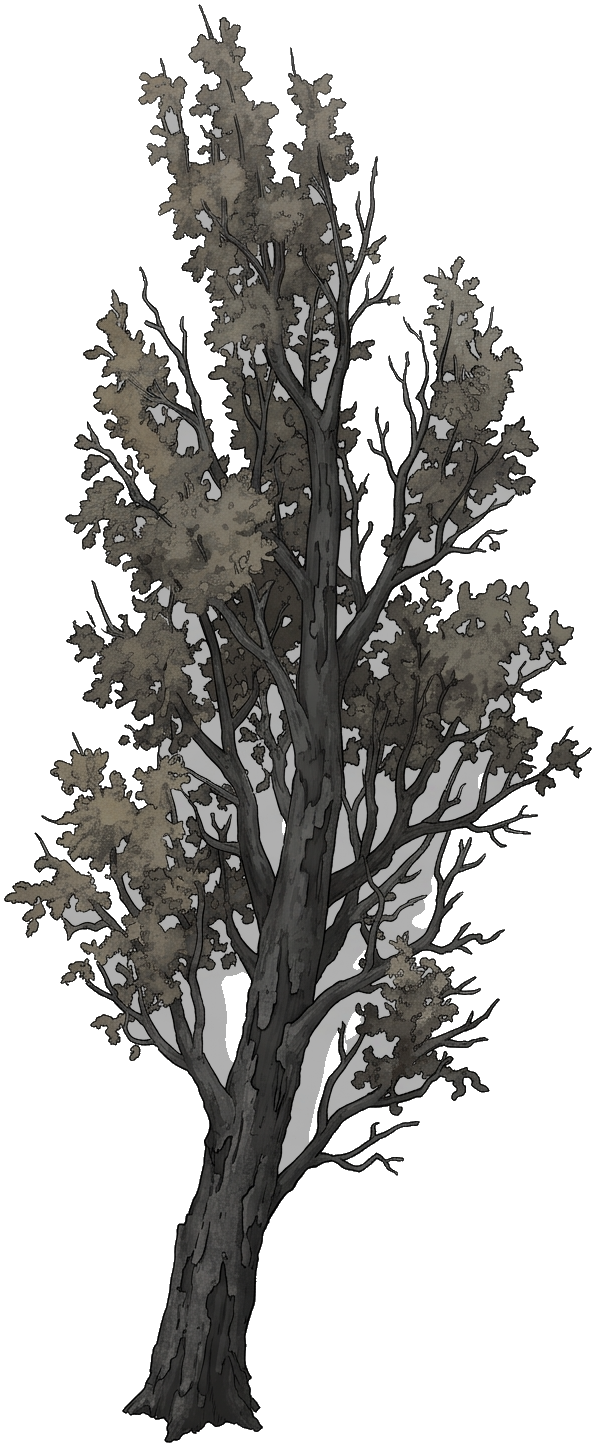
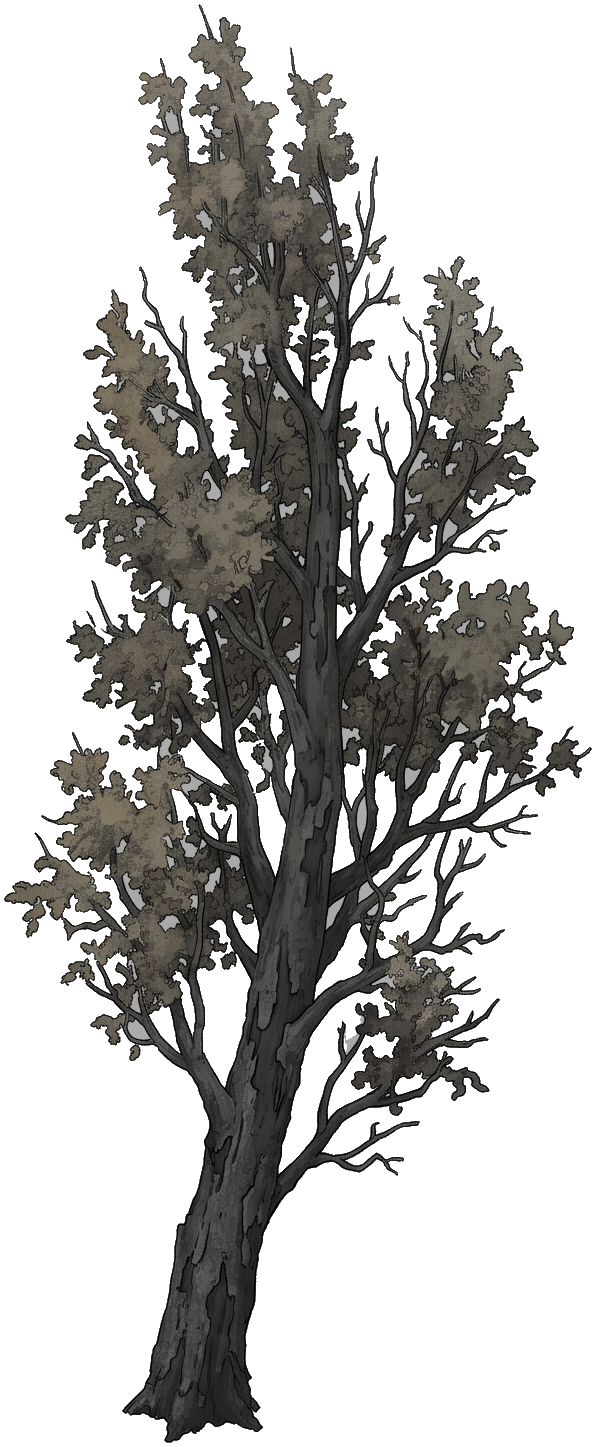
Fix bench gaps and tree whites, trees on grass only, centered road dashes
- process_sprite.mjs: region-based removal of large enclosed light areas
  (bench slat gaps, 40k px) via connected components; strip mode reused
- bench/poplar/birch reprocessed: no more visible white
- cityGen: trees only on grass/ground, never on roads/sidewalks; block-edge
  trees skip buildings
- Road centerline exactly at the 8 m road middle (was offset 0.5 m)
- Plan stage 17: Qwen consultations before complex mechanics (plot, dialog
  system, skills, enemy behavior, base building), drama in dialogs, NPC
  character, building interiors

diff --git a/src/iso/world/cityGen.js b/src/iso/world/cityGen.js
@@ -255,32 +255,54 @@ function genCourtyard(city, bx0, by0, r) {
         });
     city.tires.push({ x: cx0 + 20, y: cy0 + 6 });
   }
-  // деревья во дворе
+  // деревья во дворе — только на траве/земле, не на дорожках
   const nTrees = 3 + Math.floor(r() * 4);
-  for (let i = 0; i < nTrees; i++) {
+  for (let i = 0; i < nTrees * 2; i++) {
     const tx = cx0 + 2 + r() * (cs - 4),
       ty = cy0 + 2 + r() * (cs - 4);
+    if (ground[(ty | 0) * SIZE + (tx | 0)] !== T_GRASS) continue;
     if (Math.abs(tx - cx0 - mid) < 2.5 || Math.abs(ty - cy0 - mid) < 2.5)
       continue; // не на дорожках
     city.trees.push({ x: tx, y: ty, dead: r() < 0.3, v: Math.floor(r() * 3) });
   }
-  // деревья вдоль улиц квартала
+  // деревья у края квартала — только на траве внутри квартала (не на тротуаре!)
   for (let i = 0; i < 3; i++) {
-    if (r() < 0.6)
-      city.trees.push({
-        x: bx0 - 4.5 + r(),
-        y: by0 + 8 + r() * (BLOCK - 16),
-        dead: r() < 0.35,
-        v: Math.floor(r() * 3),
-      });
-    if (r() < 0.6)
-      city.trees.push({
-        x: bx0 + 8 + r() * (BLOCK - 16),
-        y: by0 - 4.5 + r(),
-        dead: r() < 0.35,
-        v: Math.floor(r() * 3),
-      });
+    if (r() < 0.6) {
+      const tx = bx0 + 2 + r(),
+        ty = by0 + 8 + r() * (BLOCK - 16);
+      if (
+        ground[(ty | 0) * SIZE + (tx | 0)] === T_GRASS &&
+        !buildingAt(city, tx, ty)
+      )
+        city.trees.push({
+          x: tx,
+          y: ty,
+          dead: r() < 0.35,
+          v: Math.floor(r() * 3),
+        });
+    }
+    if (r() < 0.6) {
+      const tx = bx0 + 8 + r() * (BLOCK - 16),
+        ty = by0 + 2 + r();
+      if (
+        ground[(ty | 0) * SIZE + (tx | 0)] === T_GRASS &&
+        !buildingAt(city, tx, ty)
+      )
+        city.trees.push({
+          x: tx,
+          y: ty,
+          dead: r() < 0.35,
+          v: Math.floor(r() * 3),
+        });
+    }
   }
+}
+
+// есть ли здание в точке (с запасом)
+function buildingAt(city, x, y) {
+  return city.buildings.some(
+    (b) => x > b.x - 1 && x < b.x + b.w + 1 && y > b.y - 1 && y < b.y + b.h + 1,
+  );
 }
 
 // POI-кварталы

diff --git a/src/iso/render/chunks.js b/src/iso/render/chunks.js
@@ -67,10 +67,9 @@ export function bakeChunk(city, groundSet, cx, cy) {
           ? city.gflag[ty * city.SIZE + tx]
           : 0;
       if (!f) continue;
-      const p1 = local(tx + 0.5, ty + (f === 1 ? 0 : 0.5));
-      const p2 = local(tx + 0.5, ty + (f === 1 ? 1 : 0.5));
-      const q1 = f === 2 ? local(tx, ty + 0.5) : p1;
-      const q2 = f === 2 ? local(tx + 1, ty + 0.5) : p2;
+      // флаг на тайле центра+1 (rx===4); осевая — на его левой кромке (x=tx / y=ty)
+      const q1 = f === 2 ? local(tx, ty) : local(tx, ty);
+      const q2 = f === 2 ? local(tx + 1, ty) : local(tx, ty + 1);
       g.beginPath();
       g.moveTo(q1.x, q1.y);
       g.lineTo(q2.x, q2.y);

diff --git a/REFACTORING_PLAN.md b/REFACTORING_PLAN.md
@@ -242,7 +242,7 @@ zombie/
 - [x] 16.1 Прототип изометрического рендера (`prototype/`): тайл 64×32 = 1 м², чанки земли 8×8 тайлов, спрайты зданий с запечёнными текстурами/окнами, z-сортировка по `max(wx+wy)` футпринта, cutaway здания при входе, ночное освещение half-res с эллипсами 2:1. Замер FPS и бюджета кадра. → Кадр 0,3–6 мс при ~150 drawImage, 60 FPS, запас большой.
 - [x] 16.2 Генератор компактного города (в `prototype/iso.js`, сид `?seed=`, размер `?nb=`): сетка кварталов 62 м + дорога 8 м + тротуары 3 м, периметральная застройка из типовых архетипов (панель 2–3 эт., кирпич, магазин, киоск), дворы с площадками/парковкой/рабицей, уличные машины, фонари, зомби. POI-кварталы: парк, супермаркет с парковкой, школа со спортплощадкой, больница, полиция, АЗС. Город 1458×1458 м (19×19 кварталов, 1434 здания): старт 105 мс, кадр 1,2 мс, чанки с отсевом до запечки + LRU 600, твёрдые тела в пространственной сетке 16 м, дальние зомби спят.
 - [x] 16.3 Ассет-пайплайн: ~~разведка Kenney~~ → вердикт 16.11.2026: миниатюрный «игрушечный» стиль (тайлы 132×101 с толстыми блоками, здания-игрушки), для PZ-подобного масштаба не подходит; CC0 проверен. Gemini UI по `GEMINI_IMAGE_AUTOMATION.md`: `.cache/gemini-ui/generate.mjs` (одна генерация = один чат, метаданные), `batch.mjs`/`batch_sprites.mjs` (серии), `process_texture.mjs` (кроп → 512² PNG), `process_sprite.mjs` (flood fill фона с краёв + вынос белых карманов + modulate в палитру). Сгенерированы 8 текстур (асфальт, трава, грунт, тротуар, паркет, панель, кирпич, рубероид) и 9 спрайтов (тополь, мёртвое дерево, берёза, зомби, выживший, скамейка, контейнер, покрышки, бочка). В прототипе: бесшовная 2×2 зеркальная композиция, сплошная заливка земли текстурами 32 px/м, текстурные стены/крыши, спрайты с якорем низ-центр. - [x] 16.3b Спрайты: белые артефакты — решено обработкой: `process_sprite.mjs` получил режим глобального сноса чисто-белого (`strip=1`) для тёмных объектов без белых деталей; герой (колчан/плечо) и мёртвое дерево (вилки веток) очищены (whiteOpaque → 0%). Машины: сгенерированы спрайты Gemini (седан-«Жигули», сгоревший остов, фургон-«ГАЗель», 3/4 сверху, влево) и подключены с поворотом по курсу. Осталось: мелкий белый треугольник у лобового car_sedan/car_wreck (ретушь), анимация ходьбы, квантование в мастер-палитру 32 цвета.
-- [ ] 16.4 Перенос игры на iso-рендер: решено — НОВАЯ игра на базе прототипа, старая остаётся на index.html до паритета. Сделано: `city.html` + модульный каркас `src/iso/`. Город 1,46 км, multi-page сборка и деплой. Бой заново (лук с натяжением, сегментный хит-тест, HP/смерть, укусы, кровь, трупы, тряска, возрождение). Лут/инвентарь заново: рюкзак 24 слота со стаками, мусорки/бочки с сидовым лутом, обыск по E, **действия предмета по клику на ячейку** (съесть/перевязать/выбросить), стрелы — расходник. Выживание заново: часы, рассвет/закат, ночное освещение от часов, голод и голодный урон, тушёнка/бинт, ночной приток зомби, ночью быстрее ×1,35. Крафт заново: панель на C, рецепты данными (`src/iso/data/recipes.js`): стрелы (дерево+лом), бинт (ткань×2), факел (дерево+ткань). Спавн безопасен 60 м. Дальше: баланс → NPC/лагеря → интерьеры зданий. Сохранения: `src/iso/persistence/save.js`, схема v2 (квесты; миграция из v1), автосейв 15 с, `?new=1` — новая игра. Квесты: `src/iso/data/quests.js` + `src/iso/systems/quests.js` — цепочка m1–m5 к POI (события kill/loot/visit, награды, маркер цели). Машины: `src/iso/systems/vehicles.js` — посадка E, газ/руль WASD, бак в литрах, заправка F из инвентаря, таран зомби (идёт в квесты), урон от столкновений; багажник (T) — TODO.
+- [ ] 16.4 Перенос игры на iso-рендер: решено — НОВАЯ игра на базе прототипа, старая остаётся на index.html до паритета. Сделано: `city.html` + модульный каркас `src/iso/`. Город 1,46 км, multi-page сборка и деплой. Бой заново (лук с натяжением, сегментный хит-тест, HP/смерть, укусы, кровь, трупы, тряска, возрождение). Лут/инвентарь заново: рюкзак 24 слота со стаками, мусорки/бочки с сидовым лутом, обыск по E, **действия предмета по клику на ячейку** (съесть/перевязать/выбросить), стрелы — расходник. Выживание заново: часы, рассвет/закат, ночное освещение от часов, голод и голодный урон, тушёнка/бинт, ночной приток зомби, ночью быстрее ×1,35. Крафт заново: панель на C, рецепты данными (`src/iso/data/recipes.js`): стрелы (дерево+лом), бинт (ткань×2), факел (дерево+ткань). Спавн безопасен 60 м. Дальше: интерьеры зданий (cutaway → внутренности с лутом), лагеря выживших с торговлей, факел как источник света, анимация ходьбы. Сохранения: схема v2 (квесты+машины; миграция из v1), автосейв 15 с, `?new=1` — новая игра. Квесты: цепочка m1–m5 к POI. Машины: посадка E, газ/руль WASD, бак в литрах, заправка F, таран; багажник (T) — TODO. Баланс: поводок зомби к точке спавна, погоня 7 м днём / 10 м ночью, укус 9, регенерация HP при сытости. Первый NPC: Олег в парке (диалог по E).
 
 ## Обязательные проверки
 
@@ -298,3 +298,21 @@ npm run test:e2e
 Этап 14 завершён: ранняя кампания стала личной историей с реальными адресами, живыми NPC и ближайшим «Хищником». Дальние сюжетные цели доступны через платный переезд на карте. Школьный аванпост выдаёт поручения, принимает спасённых и развивается по одной из двух веток. Типовые квартиры подбираются по fingerprint в `buildingLayoutMatcher.js`; мини-карта показывает адреса. Скоростной zoom и опциональное вращение используют общие трансформации `render/camera.js`. Сохранение v10 содержит story, camps и view options.
 Этап 15 завершён: диалоги и школьная территория исправлены, схема v10 сохранена.
 Этап 16 начат (16.11.2026): утверждён визуальный редизайн — компактный вымышленный город и изометрия 2:1 по референсу Project Zomboid. Получена консультация Qwen4-Max (`docs/visual-redesign-qwen.md`). В работе: прототип iso-рендера (16.1).
+
+### 17. Живая игра: драма, интерьеры, развитие
+
+Директивы пользователя (17.11.2026):
+
+- **Консультации Qwen4-Max для сложных и творческих механик**: сюжет, диалоговая система, навыки и характеристики, поведение врагов, развитие базы с выжившими. По каждой механике: сначала консультация (инструменты + план действий), потом реализация.
+- **Драма в диалогах**: у каждого NPC свой характер и изюминка, не сухие поручения.
+- **Интерьеры зданий**: в здания можно войти и ходить внутри (cutaway есть; нужны комнаты, мебель, лут внутри).
+
+Прочее в работе:
+
+- [x] Разметка осевой ровно посередине 8-метровой дороги (была смещена на 0,5 м).
+- [x] Деревья только на траве/земле, не на дорогах и тротуарах.
+- [ ] Интерьеры зданий: вход по E, комнаты, мебель, лут внутри.
+- [ ] Лагеря выживших с торговлей и развитием (после консультации Qwen).
+- [ ] Навыки и характеристики (после консультации Qwen).
+- [ ] Поведение врагов: типы, стадность, босс (после консультации Qwen).
+- [ ] Сюжет с драмой (после консультации Qwen).
